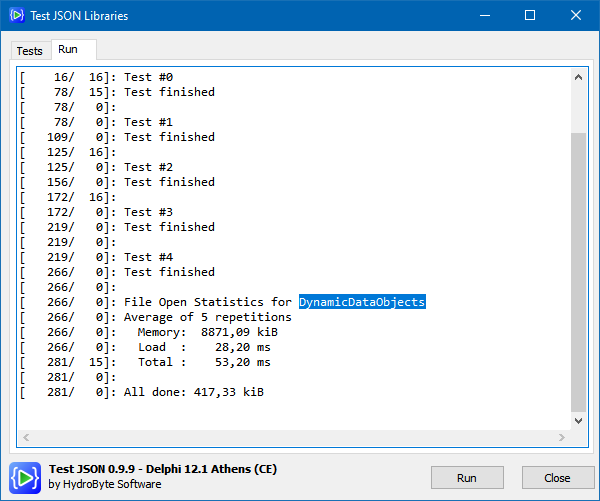
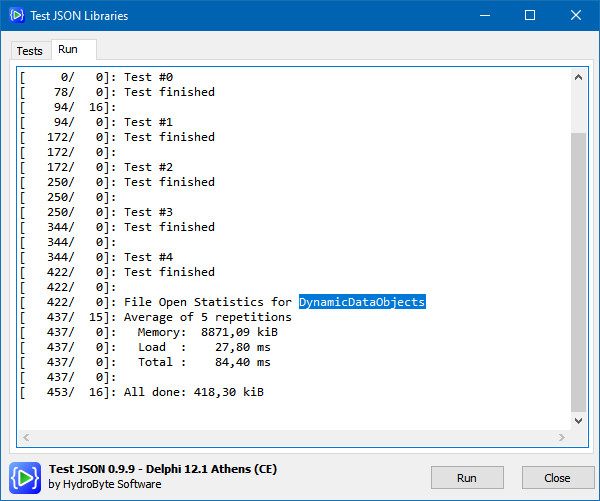
Update results for DynamicDataObjects new version. Improved code in TLibDynamicDataObjects for Validation tests. New results with Speed Run tests.

diff --git a/README.md b/README.md
@@ -72,9 +72,9 @@ Library             | Generate  | Save     | Load     | Find     | Parse    | [T
 `JsonDataObjects`   |     .03 s |    .01 s |    .02 s |    .02 s |    .02 s |    0.15 s |  9.39 MiB |          |
 `Neslib.Json`       |     .03 s |    .03 s |    .03 s |    .00 s |    .04 s |    0.18 s | 10.19 MiB |          |  
 `mORMot2`           |     .02 s |    .01 s |    .02 s |    .12 s |    .02 s |    0.23 s |  7.91 MiB |          |
+`DynamicDataObjects`|     .03 s |    .02 s |    .04 s |    .00 s |    .05 s |    0.23 s | 14.22 MiB |          |
 `Grijjy.Bson`       |     .03 s |    .04 s |    .04 s |    .01 s |    .06 s |    0.24 s |  7.70 MiB |          |
-`chimera.json`      |     .04 s |    .03 s |    .08 s |    .01 s |    .08 s |    0.30 s |  8.78 MiB |          | 
-`DynamicDataObjects`|     .07 s |    .04 s |    .08 s |    .01 s |    .09 s |    0.41 s | 14.22 MiB |          |
+`chimera.json`      |     .04 s |    .03 s |    .08 s |    .01 s |    .08 s |    0.30 s |  8.78 MiB |          |
 `McJSON`            |     .02 s |    .06 s |    .02 s |    .18 s |    .08 s |    0.41 s |  9.85 MiB |          |
 `System.JSON`       |     .02 s |    .01 s |    .06 s |    .22 s |    .06 s |    0.43 s | 11.38 MiB |          |
 `EasyJson`          |     .02 s |    .01 s |    .06 s |    .23 s |    .07 s |    0.45 s | 11.38 MiB |          |  
@@ -130,7 +130,7 @@ Library             | Expected to Fail but Passed                      | Expecte
 `Neslib.Json`       |                 fail(07, 15, 16, 18, 19, 20, 21) |                pass(04, 05) | No              |
 `dwsJSON`           |                             fail(16, 18, 19, 21) |                           - | No              |
 `chimera.json`      |         fail(01, 08, 10, 16, 18, 19, 20, 21, 23) |                           - | No              |
-`DynamicDataObjects`|                 fail(05, 06, 17, 18, 19, 21, 23) |                    pass(01) | No              |
+`DynamicDataObjects`|                                     fail(18, 19) |                    pass(01) | No              |
 `EasyJson`          |                                         fail(07) |                pass(04, 05) | No              |
 `JsonDoc`           |                                 fail(15, 20, 21) |        pass(01, 02, 04, 05) | No              |
 `mORMot2`           |             fail(05, 06, 10, 11, 15, 18, 19, 21) |                pass(04, 05) | No              |
@@ -200,7 +200,7 @@ Library             |  Memory | Factor  | Load Time | Pitfalls         |
 `Neslib.Json`       |  4676.6 |      5x |     21.80 |                  |
 `LkJson`            |  6291.7 |      6x |     72.00 |                  |
 `SuperObject`       |  7180.1 |      7x |     68.60 |                  |
-`DynamicDataObjects`|  8871.1 |      9x |     28.20 | ToString() fails |
+`DynamicDataObjects`|  8871.1 |      9x |     27.80 |                  |
 `System.JSON`       |  9420.3 |      9x |     40.60 |                  |
 `EasyJson`          |  9420.3 |      9x |     50.20 |                  |
 `McJSON`            | 10385.7 |     10x |     46.80 |                  |
